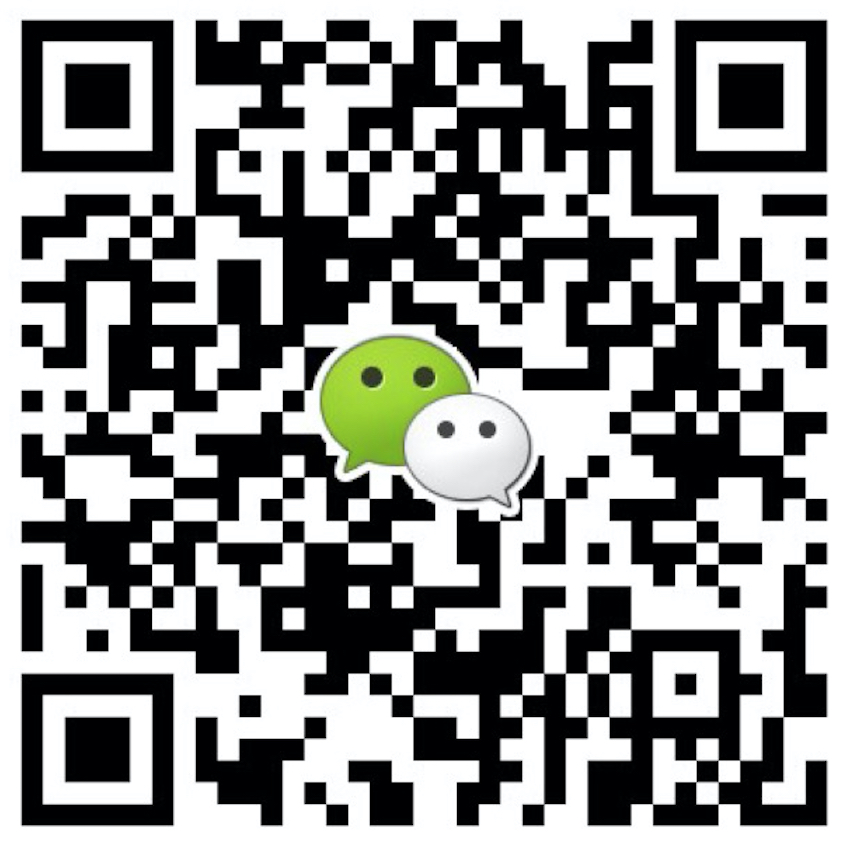
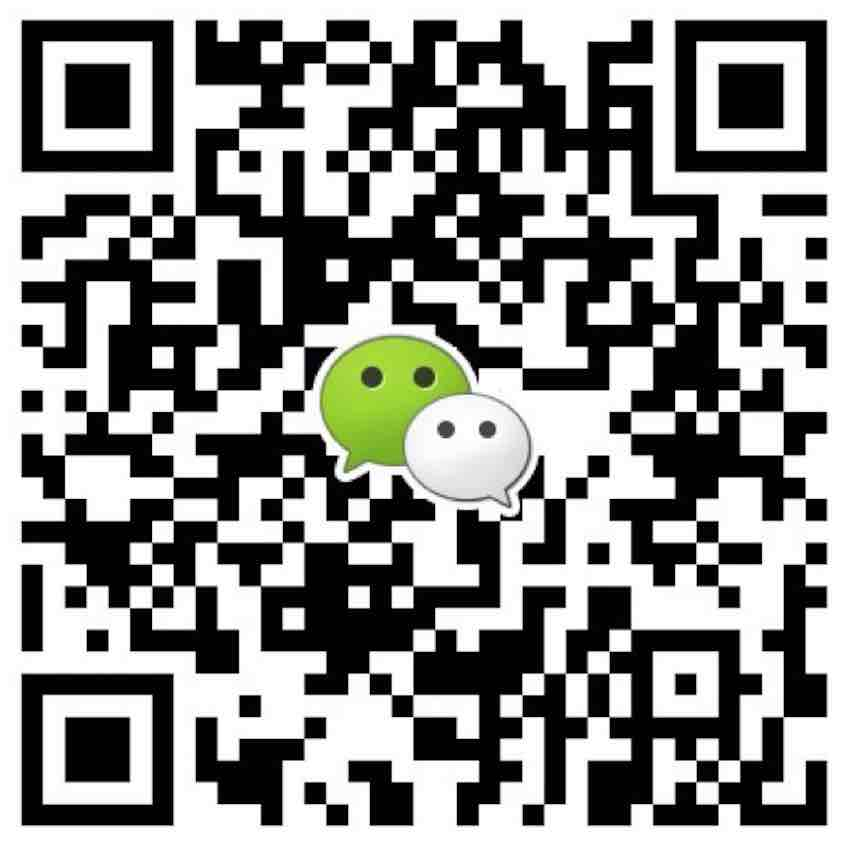
add icon_wechat

Changed region(s): [[0.52, 0.3976, 0.5506, 0.4282], [0.3976, 0.52, 0.4282, 0.5506]]

diff --git a/tutorservice.html b/tutorservice.html
@@ -17,9 +17,16 @@ header-img: "img/service.jpg"
         提供Python相关的服务,包含课程辅导,程序编写以及题目和作业讨论.<br>
         涵盖范围包括数据结构,算法设计,网页设计,数据处理,以及各种类库的使用.<br>
         可以提供Assignment,Homework,Lab,Project的相关咨询和作业指导.<br>
-        如有需要,请联系<a href="mailto:tange116@gmail.com?Subject=Python%20Tutor">tange116@gmail.com</a>,谢谢.<br>
+        如有需要,请联系<br>
+        <a href="mailto:tange116@gmail.com?Subject=Python%20Tutor">tange116@gmail.com</a><br>
+        谢谢.<br>
     </p>
-
+    <p>
+        也可加微信tangothu, 或扫二维码:
+    </p>
+    <div class="short-about">
+        <img src="/img/icon_wechat_small.jpg" />
+    </div>
 </div>
 
 <!-- English Version -->
@@ -28,9 +35,16 @@ header-img: "img/service.jpg"
         I provide Python related services including course tutorship, software coding and homework discussion.<br>
         It can cover data structures, algorithm design, web design, data analysis and library usages.<br>
         Including your assignment, homework, lab, project related teaching assistant service and discussion.<br>
-        Please feel free to reach <a href="mailto:tange116@gmail.com?Subject=Python%20Tutor">tange116@gmail.com</a>. Thank you.<br>
+        Please feel free to reach <br>
+        <a href="mailto:tange116@gmail.com?Subject=Python%20Tutor">tange116@gmail.com</a><br>
+        Thank you.<br>
     </p>
-
+    <p>
+        Or you can add my wechat tangothu, or scan below QR code:
+    </p>
+    <div class="short-about">
+        <img src="/img/icon_wechat_small.jpg" />
+    </div>
 </div>
 
 <!-- Handle Language Change -->

diff --git a/tags.html b/tags.html
@@ -1,7 +1,7 @@
 ---
 title: Tags
 layout: default
-description: keep hungry keep foolish
+description: Stay hungry, stay foolish
 header-img: "img/tag-bg.jpg"
 ---
 
